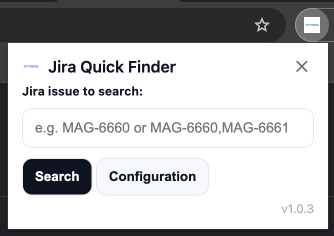
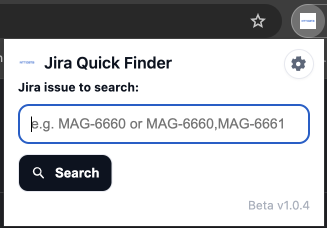
v1.0.4 More styles added and functionality for buttons

diff --git a/styles.css b/styles.css
@@ -36,6 +36,12 @@ h6.title{
   font-weight: 600;
 }
 
+.optional-text {
+  font-size: 12px;
+  color: var(--muted);
+  font-weight: 400;
+}
+
 .input,
 input[type="text"],
 input[type="url"] {
@@ -124,6 +130,17 @@ input.input.project {
 }
 .btn-delete:hover { background: #ffeaea; border-color: #ffb3b3; }
 
+.btn:hover {
+  transform: translateY(-1px) scale(1.02);
+  box-shadow: 0 4px 6px rgba(0, 0, 0, 0.08),
+              0 0 6px rgba(0, 82, 204, 0.25);
+  transition: all 0.2s ease;
+}
+.btn:active {
+  transform: translateY(0.5px) scale(1);
+  box-shadow: 0 2px 3px rgba(0, 0, 0, 0.1);
+}
+
 /* Iconos en botones */
 .btn .icon { margin-right: 6px; font-weight: 700; }
 
@@ -156,6 +173,58 @@ input.input.project {
 
 .brand { display: inline-flex; align-items: center; gap: 8px; }
 .brand img { width: 18px; height: 18px; border-radius: 4px; }
+
+/* Botón engranaje */
+.btn-gear {
+  position: absolute;
+  right: 10px;
+  top: 10px;
+  width: 30px;
+  height: 30px;
+  border-radius: 999px;
+  border: 1px solid var(--border);
+  background: #ffffff;
+  display: inline-flex;
+  align-items: center;
+  justify-content: center;
+  cursor: pointer;
+  padding: 0;
+  box-shadow: 0 1px 2px rgba(0,0,0,0.04);
+}
+
+.btn-gear:focus-visible {
+  outline: 2px solid #cfe1ff;
+  outline-offset: 2px;
+}
+
+.btn-gear:hover {
+  background: #f6f8fb;
+  border-color: #d9e2ef;
+}
+
+
+.btn-gear .gear-icon {
+  width: 18px;
+  height: 18px;
+  display: block;
+  color: var(--muted);
+  fill: currentColor;
+  shape-rendering: geometricPrecision;
+}
+
+.btn-gear:hover .gear-icon {
+  color: var(--primary);
+}
+
+/* Icono de búsqueda dentro del botón Search */
+.btn .icon-search {
+  display: inline-flex;
+  margin-right: 8px;
+}
+.btn .icon-search svg {
+  display: block;
+  fill: currentColor; /* usa el color del botón */
+}
 
 /* Badge de versión abajo derecha */
 .version-badge {

diff --git a/popup.html b/popup.html
@@ -19,8 +19,21 @@
       <input id="issueInput" class="input" type="text" placeholder="e.g. MAG-6660 or MAG-6660,MAG-6661" autofocus />
     </div>
     <div class="row">
-      <button id="btnOpen" class="btn">Search</button>
-      <button id="btnOptions" class="btn secondary">Configuration</button>
+      <button id="btnOpen" class="btn">
+        <span class="icon-search" aria-hidden="true">
+          <!-- flat search icon (SVG) -->
+          <svg viewBox="0 0 24 24" width="16" height="16" focusable="false" aria-hidden="true">
+            <path d="M15.5 14h-.79l-.28-.27a6.5 6.5 0 1 0-1.06 1.06l.27.28v.79l4.25 4.25a1 1 0 0 0 1.41-1.41L15.5 14Zm-6 0a4.5 4.5 0 1 1 0-9 4.5 4.5 0 0 1 0 9Z" />
+          </svg>
+        </span>
+        Search
+      </button>
+      <!-- config Icon -->
+      <button id="btnOptions" class="btn-gear" title="Configuration" aria-label="Open configuration">
+        <svg class="gear-icon" viewBox="0 0 24 24" aria-hidden="true" focusable="false">
+          <path d="M19.14 12.94a7.5 7.5 0 0 0 .06-.94 7.5 7.5 0 0 0-.06-.94l1.67-1.3a.75.75 0 0 0 .18-.96l-1.58-2.74a.75.75 0 0 0-.9-.34l-2 .8a6.9 6.9 0 0 0-1.58-.91l-.3-2.13A.75.75 0 0 0 12.9 2h-3.8a.75.75 0 0 0-.74.63l-.3 2.13c-.56.23-1.09.52-1.58.9l-2-.8a.75.75 0 0 0-.9.34L1.9 8.82a.75.75 0 0 0 .18.96l1.67 1.3a7.5 7.5 0 0 0 0 1.88l-1.67 1.3a.75.75 0 0 0-.18.96l1.58 2.74a.75.75 0 0 0 .9.34l2-.8c.49.38 1.02.67 1.58.9l.3 2.13c.06.36.37.63.74.63h3.8c.37 0 .69-.27.74-.63l.3-2.13c.56-.23 1.09-.52 1.58-.9l2 .8c.33.13.71 0 .9-.34l1.58-2.74a.75.75 0 0 0-.18-.96l-1.67-1.3ZM11 9a3 3 0 1 1 0 6 3 3 0 0 1 0-6Z"/>
+        </svg>
+      </button>
       <div class="version-badge" id="versionBadge" aria-hidden="true"></div>
     </div>
   </div>

diff --git a/options.html b/options.html
@@ -30,17 +30,17 @@
     <div class="row-config">
       <!-- Project -->
       <div class="field">
-        <label class="label" for="project">Project</label>
+        <label class="label" for="project">Project <span class="optional-text">(Optional)</span></label>
         <input type="text" class="input project" placeholder="e.g. Orange – Support" />
       </div>
       <!-- Key (prefix) -->
       <div class="field">
-        <label class="label" for="pref">Key</label>
+        <label class="label" for="pref">Key*</label>
         <input type="text" class="input pref" placeholder="e.g. MAG" />
       </div>
       <!-- Base URI (wider) -->
       <div class="field field-uri">
-        <label class="label" for="url">Base URI</label>
+        <label class="label" for="url">Base URI*</label>
         <input type="url" class="input url" placeholder="https://.../browse/" />
       </div>
 

diff --git a/popup.js b/popup.js
@@ -62,7 +62,7 @@ document.addEventListener('DOMContentLoaded', () => {
   const versionEl = document.getElementById('versionBadge');
   try {
     const { version } = chrome.runtime.getManifest() || {};
-    if (versionEl && version) versionEl.textContent = `v${version}`;
+    if (versionEl && version) versionEl.textContent = `Beta v${version}`;
   } catch (_) {
     if (versionEl) versionEl.textContent = '';
   }

diff --git a/README.md b/README.md
@@ -12,7 +12,7 @@ It helps teams working with several Jira servers (clients, environments, or proj
 
 ---
 
-## 🚀 Features (v1.0.3)
+## 🚀 Features (v1.0.4)
 
 ### 🔍 Fast Issue Lookup
 - Enter any Jira issue key (e.g., `MAG-6660`) to open it instantly.
